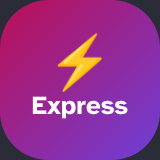
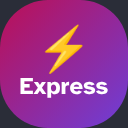
Widget parent (qui a révisé, prochaine interro) ; « Express » tient en entier dans le 1×1
runtimeVersion 7 (nouveau widget natif).

Claude-Session: https://claude.ai/code/session_01YNgFjB4Dn7bS44t42xdDQX

diff --git a/src/widgets/views.tsx b/src/widgets/views.tsx
@@ -1,6 +1,6 @@
 import { FlexWidget, SvgWidget, TextWidget } from "react-native-android-widget";
 import { mascotSvgString } from "../components/mascot/svgString";
-import type { WidgetData, WidgetState } from "./data";
+import type { ParentWidgetState, WidgetData, WidgetState } from "./data";
 
 // Les widgets Android de Cervelle : un fond en dégradé vif (le même en mode
 // clair et sombre), du texte blanc centré et aéré, Cervelle qui dort tant
@@ -37,7 +37,7 @@ export interface Size {
   height: number;
 }
 
-function Frame({ g, children, uri, click = "OPEN_APP", label, row = false }: { g: Gradient; children: React.ReactNode; uri?: string; click?: string; label: string; row?: boolean }) {
+function Frame({ g, children, uri, click = "OPEN_APP", label, row = false, pad = 16 }: { g: Gradient; children: React.ReactNode; uri?: string; click?: string; label: string; row?: boolean; pad?: number }) {
   return (
     <FlexWidget
       clickAction={uri ? "OPEN_URI" : click}
@@ -48,7 +48,7 @@ function Frame({ g, children, uri, click = "OPEN_APP", label, row = false }: { g
         width: "match_parent",
         backgroundGradient: { from: g[0], to: g[1], orientation: "TL_BR" },
         borderRadius: 24,
-        padding: 16,
+        padding: pad,
         flexDirection: row ? "row" : "column",
         justifyContent: "center",
         alignItems: "center",
@@ -63,6 +63,11 @@ const Gap = ({ h = 8 }: { h?: number }) => <FlexWidget style={{ height: h, width
 
 function Txt({ text, size, color = WHITE, font = TEXT, lines = 1 }: { text: string; size: number; color?: Hex; font?: string; lines?: number }) {
   return <TextWidget text={text} maxLines={lines} truncate="END" style={{ fontSize: size, color, fontFamily: font, textAlign: "center" }} />;
+}
+
+/** Un mot qui rétrécit pour tenir en entier dans un petit widget. */
+function Fit({ text }: { text: string }) {
+  return <TextWidget text={text} maxLines={1} style={{ fontSize: 12, color: WHITE, fontFamily: BOLD, textAlign: "center", width: "match_parent", adjustsFontSizeToFit: true }} />;
 }
 
 function Bar({ value, color = WHITE }: { value: number; color?: Hex }) {
@@ -114,6 +119,7 @@ function Week({ week, dot = 24 }: { week: NonNullable<WidgetData["week"]>; dot?:
   );
 }
 
+const shortDays = (n: number) => (n <= 0 ? "aujourd'hui" : n === 1 ? "demain" : `dans ${n} j`);
 const days = (n: number) => (n <= 0 ? "aujourd'hui" : n === 1 ? "demain" : `dans ${n} jours`);
 const mins = (n: number) => (n >= 60 ? `${Math.floor(n / 60)} h ${String(n % 60).padStart(2, "0")}` : `${n} min`);
 
@@ -284,9 +290,51 @@ function Amis({ d }: { d: WidgetData }) {
 /** 1 × 1 : un seul bouton, la révision express. */
 function Express({ d }: { d: WidgetData }) {
   return (
-    <Frame g={G.express} label={d.exam ? "Révision express pour ta prochaine interro" : "Révision express de tes notions à revoir"} uri={expressUri(d)}>
-      <Txt text="⚡" size={26} />
-      <Txt text="Express" size={13} font={BOLD} />
+    <Frame g={G.express} label={d.exam ? "Révision express pour ta prochaine interro" : "Révision express de tes notions à revoir"} uri={expressUri(d)} pad={4}>
+      <Txt text="⚡" size={22} />
+      <Fit text="Express" />
+    </Frame>
+  );
+}
+
+// ── Widget parent ──
+
+const PARENT: Gradient = ["#1F1A3D", "#6D3FD9"];
+
+export function renderParentWidget(state: ParentWidgetState) {
+  if (state.kind === "signedOut" || state.data.children.length === 0) {
+    return (
+      <Frame g={PARENT} label="Ouvre Cervelle en parent">
+        <Txt text="👨👩👧 Mes enfants" size={15} font={TITLE} />
+        <Gap h={6} />
+        <Txt text="Ouvre Cervelle avec ton compte parent pour remplir ce widget." size={13} color={SOFT} lines={3} />
+      </Frame>
+    );
+  }
+  const kids = state.data.children.slice(0, 3);
+  const label = kids.map((c) => `${c.name} : ${c.studiedToday ? "a révisé aujourd'hui" : "pas encore révisé"}${c.exam ? `, interro ${days(c.exam.daysLeft)}` : ""}.`).join(" ");
+  return (
+    <Frame g={PARENT} label={label} pad={12}>
+      {kids.map((c, i) => (
+        <FlexWidget key={c.id} style={{ width: "match_parent", flexDirection: "row", alignItems: "center", marginTop: i ? 8 : 0 }}>
+          <SvgWidget svg={mascotSvgString(c.equipped, c.studiedToday ? "happy" : "sleep")} style={{ width: 40, height: 39 }} />
+          <FlexWidget style={{ flex: 1, flexDirection: "column", marginLeft: 10 }}>
+            <FlexWidget style={{ flexDirection: "row", alignItems: "center" }}>
+              <TextWidget text={c.name} maxLines={1} truncate="END" style={{ fontSize: 16, color: WHITE, fontFamily: TITLE }} />
+              <TextWidget text={c.streak > 0 ? `  🔥 ${c.streak}` : ""} style={{ fontSize: 13, color: SOFT, fontFamily: BOLD }} />
+            </FlexWidget>
+            <TextWidget
+              text={c.exam ? `📅 ${subjectOf(c.exam) || c.exam.title} ${shortDays(c.exam.daysLeft)} · ${c.exam.mastered}/${c.exam.notions} compris` : "Pas d'interro prévue"}
+              maxLines={1}
+              truncate="END"
+              style={{ fontSize: 12, color: SOFT, fontFamily: TEXT }}
+            />
+          </FlexWidget>
+          <FlexWidget style={{ backgroundColor: c.studiedToday ? WHITE : TRACK, borderRadius: 12, paddingVertical: 4, paddingHorizontal: 10, marginLeft: 6 }}>
+            <TextWidget text={c.studiedToday ? "✓ Révisé" : "Pas encore"} style={{ fontSize: 12, color: c.studiedToday ? "#027C3E" : WHITE, fontFamily: BOLD }} />
+          </FlexWidget>
+        </FlexWidget>
+      ))}
     </Frame>
   );
 }
@@ -294,9 +342,9 @@ function Express({ d }: { d: WidgetData }) {
 function SignedOut({ name }: { name: string }) {
   if (name === "Express") {
     return (
-      <Frame g={G.express} label="Ouvre Cervelle">
-        <Txt text="⚡" size={26} />
-        <Txt text="Cervelle" size={12} font={BOLD} />
+      <Frame g={G.express} label="Ouvre Cervelle" pad={4}>
+        <Txt text="⚡" size={22} />
+        <Fit text="Cervelle" />
       </Frame>
     );
   }

diff --git a/src/widgets/data.ts b/src/widgets/data.ts
@@ -125,3 +125,72 @@ export function forgetWidgetData() {
     }
   }
 }
+
+// ── Widget parent : chaque enfant, sur le téléphone du parent ──
+
+export interface ParentWidgetData {
+  day: string;
+  children: { id: string; name: string; streak: number; studiedToday: boolean; equipped: string[]; exam: WidgetData["exam"] }[];
+}
+
+export type ParentWidgetState = { kind: "signedOut" } | { kind: "ready"; data: ParentWidgetData };
+
+const parentCache = () => new File(Paths.document, "widget-parent.json");
+
+export function saveParentData(data: ParentWidgetData) {
+  try {
+    parentCache().write(JSON.stringify(data));
+  } catch {
+    // Le cache n'est qu'un secours.
+  }
+}
+
+/** Ce qui date d'hier ne dit rien d'aujourd'hui. */
+function parentForToday(data: ParentWidgetData, today = localDay()): ParentWidgetData {
+  if (data.day === today) return data;
+  return { ...data, children: data.children.map((c) => ({ ...c, studiedToday: false, exam: c.exam && { ...c.exam, daysLeft: daysBetween(today, c.exam.examDate) } })) };
+}
+
+/**
+ * Hors de l'appli, le widget n'essaie que le jeton d'accès déjà enregistré :
+ * le renouveler ici pourrait déconnecter l'appli (un jeton de renouvellement
+ * ne sert qu'une fois). L'appli met le widget à jour à chaque ouverture.
+ */
+export async function loadParentState(fresh = true): Promise<ParentWidgetState> {
+  let session: { kind?: string; accessToken?: string } | null = null;
+  try {
+    const raw = await SecureStore.getItemAsync(SESSION_KEY);
+    session = raw ? JSON.parse(raw) : null;
+  } catch {
+    session = null;
+  }
+  if (session?.kind !== "parent" || !session.accessToken) return { kind: "signedOut" };
+  let data: ParentWidgetData | null = null;
+  try {
+    const f = parentCache();
+    data = f.exists ? (JSON.parse(f.textSync()) as ParentWidgetData) : null;
+  } catch {
+    data = null;
+  }
+  if (fresh) {
+    try {
+      const res = await fetch(`${API_URL}/cervelle/widget/parent`, { headers: { Authorization: `Bearer ${session.accessToken}` } });
+      if (res.ok) {
+        data = (await res.json()) as ParentWidgetData;
+        saveParentData(data);
+      }
+    } catch {
+      // Hors connexion : on garde le cache.
+    }
+  }
+  return data ? { kind: "ready", data: parentForToday(data) } : { kind: "signedOut" };
+}
+
+export function forgetParentData() {
+  try {
+    const f = parentCache();
+    if (f.exists) f.delete();
+  } catch {
+    // rien
+  }
+}

diff --git a/src/widgets/handler.tsx b/src/widgets/handler.tsx
@@ -1,12 +1,18 @@
 import { Platform } from "react-native";
 import { requestWidgetUpdate, type WidgetTaskHandlerProps } from "react-native-android-widget";
-import { forgetWidgetData, loadWidgetState, toggleFlip } from "./data";
-import { renderWidgetFor, WIDGETS } from "./views";
+import { forgetParentData, forgetWidgetData, loadParentState, loadWidgetState, saveParentData, toggleFlip, type ParentWidgetData } from "./data";
+import { renderParentWidget, renderWidgetFor, WIDGETS } from "./views";
+
+export const PARENT_WIDGET = "Parent";
 
 // Appelé par Android (hors de l'appli) : widget ajouté, mise à jour toutes les
 // 30 minutes, redimensionné, ou touché (« FLIP » retourne la carte du jour).
 export async function widgetTaskHandler({ widgetInfo, widgetAction, clickAction, renderWidget }: WidgetTaskHandlerProps) {
   if (widgetAction === "WIDGET_DELETED") return;
+  if (widgetInfo.widgetName === PARENT_WIDGET) {
+    renderWidget(renderParentWidget(await loadParentState(widgetAction !== "WIDGET_RESIZED")));
+    return;
+  }
   if (widgetAction === "WIDGET_CLICK" && clickAction === "FLIP") {
     const state = await loadWidgetState(false);
     if (state.kind === "ready") state.flipped = toggleFlip(state.data);
@@ -36,9 +42,18 @@ export function refreshWidgets(): Promise<void> {
   return pending;
 }
 
-/** Déconnexion : les widgets oublient l'enfant. */
+/** Depuis l'espace parent : l'appli (qui sait renouveler le jeton) donne les données au widget. */
+export async function refreshParentWidget(data: ParentWidgetData) {
+  if (Platform.OS !== "android") return;
+  saveParentData(data);
+  await requestWidgetUpdate({ widgetName: PARENT_WIDGET, renderWidget: () => renderParentWidget({ kind: "ready", data }) }).catch(() => {});
+}
+
+/** Déconnexion : les widgets oublient l'enfant et le parent. */
 export async function clearWidgets() {
   if (Platform.OS !== "android") return;
   forgetWidgetData();
+  forgetParentData();
+  await requestWidgetUpdate({ widgetName: PARENT_WIDGET, renderWidget: () => renderParentWidget({ kind: "signedOut" }) }).catch(() => {});
   await Promise.all(WIDGETS.map((name) => requestWidgetUpdate({ widgetName: name, renderWidget: () => renderWidgetFor(name, { kind: "signedOut" }) }).catch(() => {})));
 }

diff --git a/src/widgets/useParentWidget.ts b/src/widgets/useParentWidget.ts
@@ -1,0 +1,23 @@
+import { useEffect } from "react";
+import { AppState, Platform } from "react-native";
+import { api } from "../api/client";
+import { useSession } from "../state/session";
+import type { ParentWidgetData } from "./data";
+import { refreshParentWidget } from "./handler";
+
+/** Espace parent : met à jour le widget parent à l'ouverture et en quittant l'appli. */
+export function useParentWidget() {
+  const parent = useSession((s) => s.session?.kind === "parent");
+  useEffect(() => {
+    if (!parent || Platform.OS !== "android") return;
+    const update = () => {
+      api
+        .get<ParentWidgetData>("/cervelle/widget/parent")
+        .then(refreshParentWidget)
+        .catch(() => {});
+    };
+    update();
+    const sub = AppState.addEventListener("change", (s) => (s === "active" || s === "background") && update());
+    return () => sub.remove();
+  }, [parent]);
+}

diff --git a/app/parent/index.tsx b/app/parent/index.tsx
@@ -16,10 +16,12 @@ import { Button, Card, ErrorBox, Loading, Page, Segmented, T } from "../../src/c
 import { duration, longDate, MODE_LABEL, shortDate, whenLabel } from "../../src/lib/format";
 import { useParentPrefs } from "../../src/state/parentPrefs";
 import { useSession } from "../../src/state/session";
+import { useParentWidget } from "../../src/widgets/useParentWidget";
 import { color, font, learnerColorOf, space } from "../../src/theme/tokens";
 
 export default function ParentHome() {
   useParentWeeklyReminder();
+  useParentWidget();
   const learners = useLearners();
   const { learnerId, setLearner } = useParentPrefs();
   const selected = learners.data?.find((l) => l.id === learnerId) ?? learners.data?.[0] ?? null;
